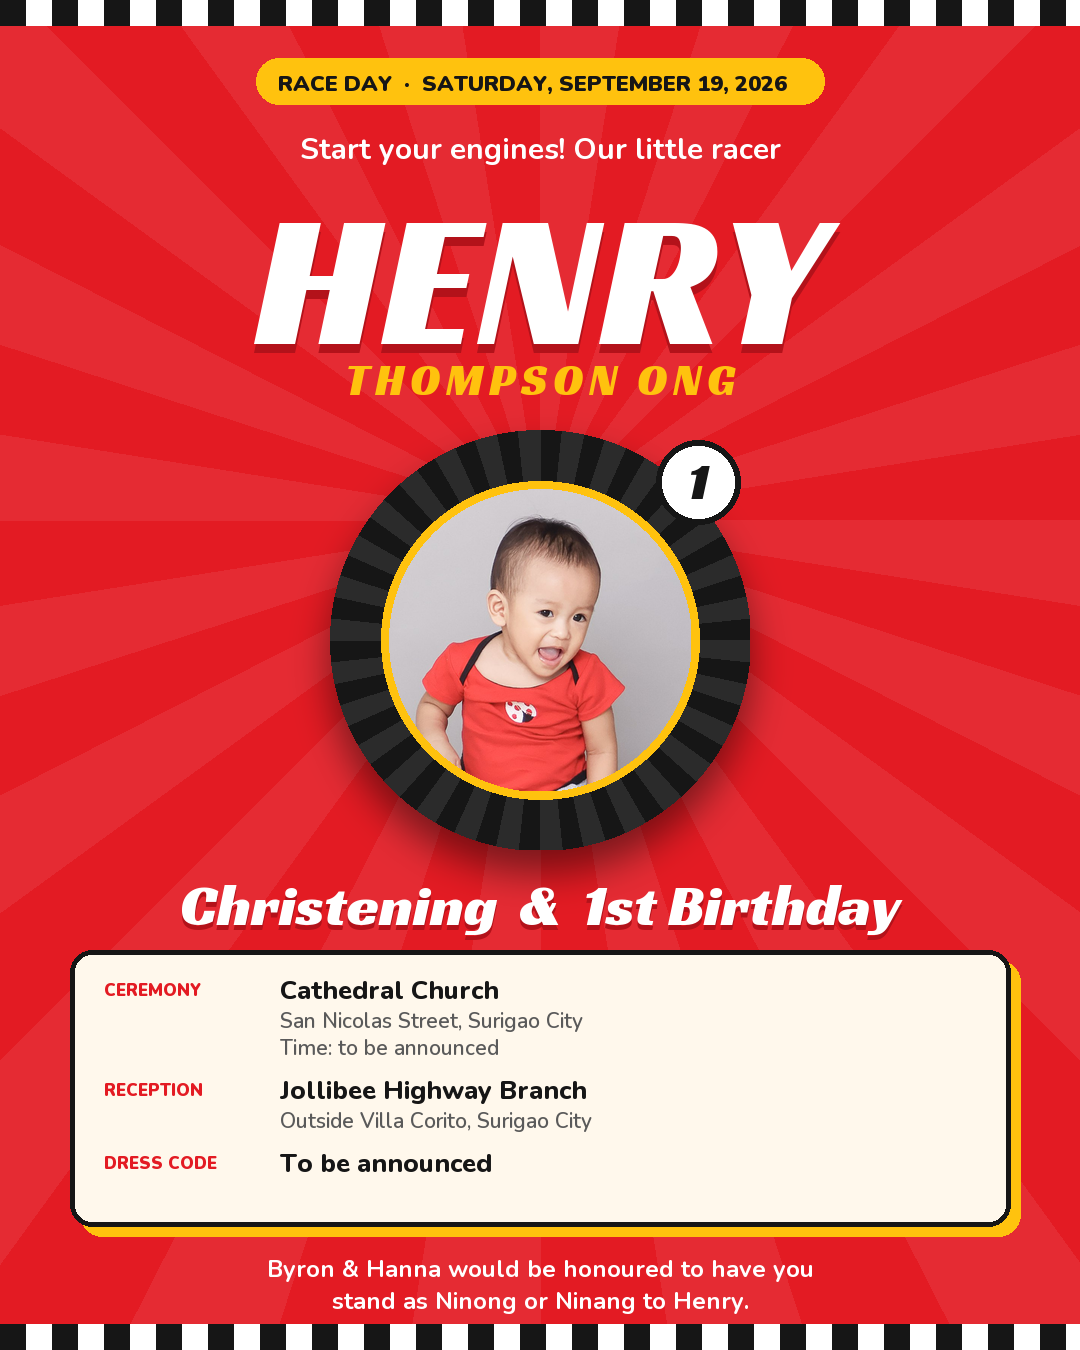
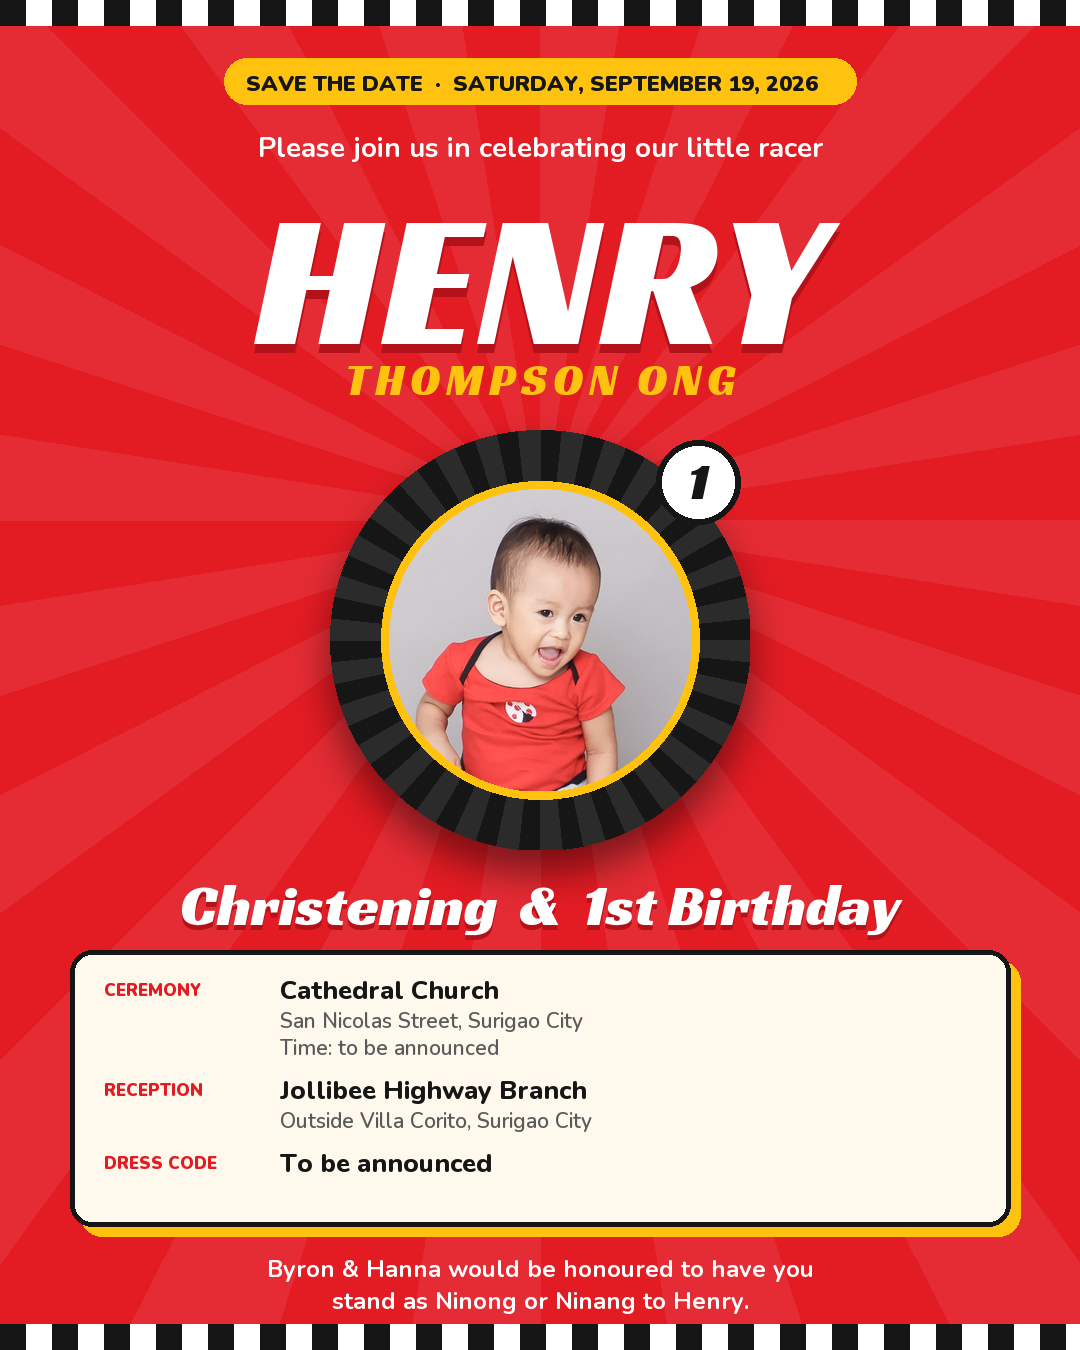
Rewrite copy in invitation tone; keep race theme as decoration

Changed region(s): [[0.2139, 0.0311, 0.7944, 0.1244]]

diff --git a/index.html b/index.html
@@ -4,10 +4,10 @@
 <meta charset="utf-8">
 <meta name="viewport" content="width=device-width, initial-scale=1">
 <title>Henry's First Lap</title>
-<meta name="description" content="Start your engines! Henry Thompson Ong's Christening and 1st Birthday. September 19, 2026, Surigao City.">
+<meta name="description" content="You are invited to Henry Thompson Ong's Christening and 1st Birthday. September 19, 2026, Surigao City.">
 <meta name="robots" content="noindex">
 <meta property="og:title" content="Henry's First Lap: Christening & 1st Birthday">
-<meta property="og:description" content="You're on the guest list! September 19, 2026, Surigao City. Tap to open your pit pass.">
+<meta property="og:description" content="You are invited! September 19, 2026, Surigao City. Tap to open your invitation.">
 <meta property="og:type" content="website">
 <meta property="og:image" content="https://byronong-maker.github.io/henry-invitation/img/henry-hero.jpg">
 <meta name="theme-color" content="#e31b23">
@@ -380,15 +380,15 @@
     <div class="col"><div class="lamp"></div><div class="lamp"></div></div>
     <div class="col"><div class="lamp"></div><div class="lamp"></div></div>
   </div>
-  <div class="msg race" id="introMsg">Start your engines</div>
+  <div class="msg race" id="introMsg">Get ready</div>
   <button class="skip" id="skip">Skip intro</button>
 </div>
 
 <!-- ================= HERO ================= -->
 <header id="hero">
   <div class="wrap">
-    <span class="tag"><i class="flag"></i> Race day &middot; September 19, 2026</span>
-    <p class="kicker">Start your engines! Our little racer</p>
+    <span class="tag"><i class="flag"></i> Save the date &middot; September 19, 2026</span>
+    <p class="kicker">Please join us in celebrating our little racer</p>
     <h1 class="hero-name race">HENRY</h1>
     <p class="hero-sub race">Thompson Ong</p>
     <div class="roundel race">1</div>
@@ -437,21 +437,21 @@
 <!-- ================= PIT PASS (personalised) ================= -->
 <section class="block" id="pass">
   <div class="wrap">
-    <h2 class="h2 race">Your <span>Pit Pass</span></h2>
-    <p class="lead">You're on the guest list. No RSVP needed, just show up ready to cheer.</p>
+    <h2 class="h2 race">You're <span>invited</span></h2>
+    <p class="lead">We would love to have you with us on Henry's big day.</p>
 
     <div class="ticket">
-      <div class="head"><span>Admit one &middot; Pit lane</span><span class="chk"></span></div>
+      <div class="head"><span>Invitation &middot; Henry's big day</span><span class="chk"></span></div>
       <div class="body">
         <div class="dear">Dear</div>
         <div class="guest race" id="guestName">Family &amp; Friends</div>
         <p class="copy" id="guestCopy">
-          <b>Byron and Hanna</b> would love for you to join them as their little racer
-          <b>Henry Thompson Ong</b> is welcomed into the Christian faith and crosses his very first finish line: one year old!
+          <b>Byron and Hanna</b> warmly invite you to join them as their son
+          <b>Henry Thompson Ong</b> is welcomed into the Christian faith and celebrates his first birthday.
         </p>
         <div class="meta">
-          <div>Driver<strong>Henry</strong></div>
-          <div>Race no.<strong>#1</strong></div>
+          <div>Celebrant<strong>Henry</strong></div>
+          <div>Turning<strong>One</strong></div>
           <div>Date<strong>Sept 19, 2026</strong></div>
         </div>
         <div class="bar"></div>
@@ -463,12 +463,12 @@
 <!-- ================= MEET THE DRIVER ================= -->
 <section class="block" id="driver">
   <div class="wrap">
-    <h2 class="h2 race">Meet the <span>driver</span></h2>
-    <p class="lead">One year old, already on the podium.</p>
+    <h2 class="h2 race">Our little <span>Henry</span></h2>
+    <p class="lead">One year of smiles, and he is only getting started.</p>
     <div class="strip">
-      <figure class="shot"><img src="img/henry-one.jpg" alt="Henry holding a gold number 1 balloon"><figcaption>Race no. 1</figcaption></figure>
-      <figure class="shot"><img src="img/henry-sister.jpg" alt="Henry with his big sister"><figcaption>With his pit crew chief, big sister</figcaption></figure>
-      <figure class="shot"><img src="img/henry-smile.jpg" alt="Henry smiling"><figcaption>Pre-race warm-up</figcaption></figure>
+      <figure class="shot"><img src="img/henry-one.jpg" alt="Henry holding a gold number 1 balloon"><figcaption>Turning one</figcaption></figure>
+      <figure class="shot"><img src="img/henry-sister.jpg" alt="Henry with his big sister"><figcaption>With his big sister</figcaption></figure>
+      <figure class="shot"><img src="img/henry-smile.jpg" alt="Henry smiling"><figcaption>All smiles</figcaption></figure>
     </div>
   </div>
 </section>
@@ -476,7 +476,7 @@
 <!-- ================= COUNTDOWN ================= -->
 <section class="block" id="count">
   <div class="wrap">
-    <h2 class="h2 race">Race starts <span>in</span></h2>
+    <h2 class="h2 race">Counting down to the <span>big day</span></h2>
     <div class="cd" id="cd">
       <div><b id="cdD">--</b><small>days</small></div>
       <div><b id="cdH">--</b><small>hours</small></div>
@@ -497,7 +497,7 @@
 <!-- ================= DETAILS ================= -->
 <section class="block" id="details">
   <div class="wrap">
-    <h2 class="h2 race">Race day <span>details</span></h2>
+    <h2 class="h2 race">The <span>details</span></h2>
 
     <div class="grid">
       <div class="item">
@@ -539,23 +539,23 @@
 <!-- ================= RACE ROUTE ================= -->
 <section class="block" id="route">
   <div class="wrap">
-    <h2 class="h2 race">The <span>race route</span></h2>
-    <p class="lead">Three laps. One very happy little driver.</p>
+    <h2 class="h2 race">How the <span>day goes</span></h2>
+    <p class="lead">From the church to the party, all in one afternoon.</p>
     <div class="laps">
       <div class="lap" data-n="1">
-        <div class="l">Lap 1 &middot; Ceremony</div>
+        <div class="l">First &middot; Ceremony</div>
         <div class="t race">Christening</div>
         <div class="d">Cathedral Church, San Nicolas Street <span class="tba">Time TBA</span></div>
       </div>
       <div class="lap" data-n="2">
-        <div class="l">Lap 2 &middot; Pit stop</div>
+        <div class="l">Then &middot; Reception</div>
         <div class="t race">Lunch at Jollibee</div>
-        <div class="d">Jollibee Highway Branch, outside Villa Corito. Chickenjoy, spaghetti and games. <span class="tba">Time TBA</span></div>
+        <div class="d">Jollibee Highway Branch, outside Villa Corito. Lunch, games and a lot of Chickenjoy. <span class="tba">Time TBA</span></div>
       </div>
       <div class="lap" data-n="3">
-        <div class="l">Lap 3 &middot; Finish line</div>
+        <div class="l">Finally &middot; The best part</div>
         <div class="t race">Cake &amp; photos</div>
-        <div class="d">Henry's first birthday cake, then a photo with the birthday boy.</div>
+        <div class="d">Henry's first birthday cake, then photos with the birthday boy.</div>
       </div>
     </div>
   </div>
@@ -564,7 +564,7 @@
 <!-- ================= PIT CREW ================= -->
 <section class="block" id="crew">
   <div class="wrap">
-    <h2 class="h2 race">Henry's <span>pit crew</span></h2>
+    <h2 class="h2 race">Henry's <span>family</span></h2>
     <div class="crew">
       <div class="card"><h4>Dad</h4><p>Byron Ong</p></div>
       <div class="card"><h4>Mom</h4><p>Hanna Albino</p></div>
@@ -577,8 +577,8 @@
 <div class="checks"></div>
 <footer>
   <div class="wrap">
-    <h2 class="h2 race">See you at the <span>finish line!</span></h2>
-    <p class="with">With love and full tanks,</p>
+    <h2 class="h2 race">See you <span>there!</span></h2>
+    <p class="with">With love,</p>
     <p class="names race">Byron, Hanna &amp; Henry</p>
     <p class="fine">Surigao City &middot; September 19, 2026</p>
   </div>
@@ -601,10 +601,10 @@
     nameEl.textContent = prefix + to;
     if (role === 'ninong' || role === 'ninang') {
       copyEl.innerHTML = '<b>Byron and Hanna</b> would be honoured to have you stand as ' +
-        (role === 'ninong' ? 'Ninong' : 'Ninang') + ' to their little racer <b>Henry Thompson Ong</b> ' +
-        'as he is welcomed into the Christian faith and crosses his very first finish line: one year old!';
+        (role === 'ninong' ? 'Ninong' : 'Ninang') + ' to their son <b>Henry Thompson Ong</b> ' +
+        'as he is welcomed into the Christian faith and celebrates his first birthday.';
     }
-    document.title = 'Pit pass for ' + prefix + to + ' · Henry’s First Lap';
+    document.title = 'Invitation for ' + prefix + to + ' · Henry’s First Lap';
   }
 
   /* ---------- countdown ---------- */
@@ -614,7 +614,7 @@
   function tick(){
     var diff = target - Date.now();
     if (diff <= 0) { D.textContent='00';H.textContent='00';M.textContent='00';S.textContent='00';
-      document.querySelector('#count .h2').innerHTML = 'It’s <span>race day!</span>'; return; }
+      document.querySelector('#count .h2').innerHTML = 'It’s <span>Henry’s big day!</span>'; return; }
     var s=Math.floor(diff/1000), d=Math.floor(s/86400), h=Math.floor(s%86400/3600), m=Math.floor(s%3600/60), sec=s%60;
     D.textContent=d; H.textContent=pad(h); M.textContent=pad(m); S.textContent=pad(sec);
     setTimeout(tick, 1000);
@@ -645,7 +645,7 @@
         clearInterval(t);
         setTimeout(function(){
           cols.forEach(function(c){ c.classList.remove('on'); c.classList.add('go'); });
-          msg.textContent = 'Lights out and away we go!';
+          msg.textContent = 'Henry is turning one!';
           setTimeout(finish, 900);
         }, 700);
       }

diff --git a/links.html b/links.html
@@ -4,7 +4,7 @@
 <meta charset="utf-8">
 <meta name="viewport" content="width=device-width, initial-scale=1">
 <meta name="robots" content="noindex">
-<title>Pit pass links</title>
+<title>Invitation links</title>
 <style>
   body{font-family:system-ui,-apple-system,'Segoe UI',sans-serif;background:#fff8ec;color:#1e1e1e;margin:0;padding:24px}
   .wrap{max-width:720px;margin:0 auto}
@@ -23,7 +23,7 @@
 </head>
 <body>
 <div class="wrap">
-  <h1>Pit pass links for Henry's invitation</h1>
+  <h1>Invitation links for Henry's big day</h1>
   <p>One guest per line. Add <b>, ninong</b> or <b>, ninang</b> after a name to give them the godparent version.<br>
   Example:<br><span class="hint">Lola Ning<br>Mark Santos, ninong<br>Ana Reyes, ninang<br>Tito Jun &amp; Tita Beth</span></p>
   <textarea id="in" placeholder="Lola Ning

diff --git a/card/make_card.py b/card/make_card.py
@@ -46,14 +46,14 @@ def center(t, y, f, fill, shadow=None, tracking=0):
     d.text((x, y), t, font=f, fill=fill)
 
 # ---- yellow pill tag
-tag = "RACE DAY  ·  SATURDAY, SEPTEMBER 19, 2026"
+tag = "SAVE THE DATE  ·  SATURDAY, SEPTEMBER 19, 2026"
 f = nunito(22, 900); tw = text_w(tag, f) + 8 * 2
 px0, py0 = W / 2 - tw / 2 - 22, 58
 d.rounded_rectangle((px0, py0, px0 + tw + 44, py0 + 46), radius=23, fill=YELLOW)
 d.text((px0 + 22, py0 + 10), tag, font=f, fill=BLACK)
 
 # ---- kicker + name
-center("Start your engines! Our little racer", 128, nunito(30, 700), WHITE)
+center("Please join us in celebrating our little racer", 128, nunito(28, 700), WHITE)
 center("HENRY", 158, racing(190), WHITE, shadow=(RED_DARK, 9))
 center("THOMPSON ONG", 352, racing(44), YELLOW, tracking=6)
 
@@ -106,7 +106,7 @@ if VARIANT == 'godparents':
     l2 = "stand as Ninong or Ninang to Henry."
 else:
     l1 = "Byron & Hanna would love for you to join them"
-    l2 = "as Henry crosses his very first finish line."
+    l2 = "as Henry is christened and turns one."
 center(l1, 1252, nunito(24, 700), WHITE)
 center(l2, 1284, nunito(24, 700), WHITE)
 
